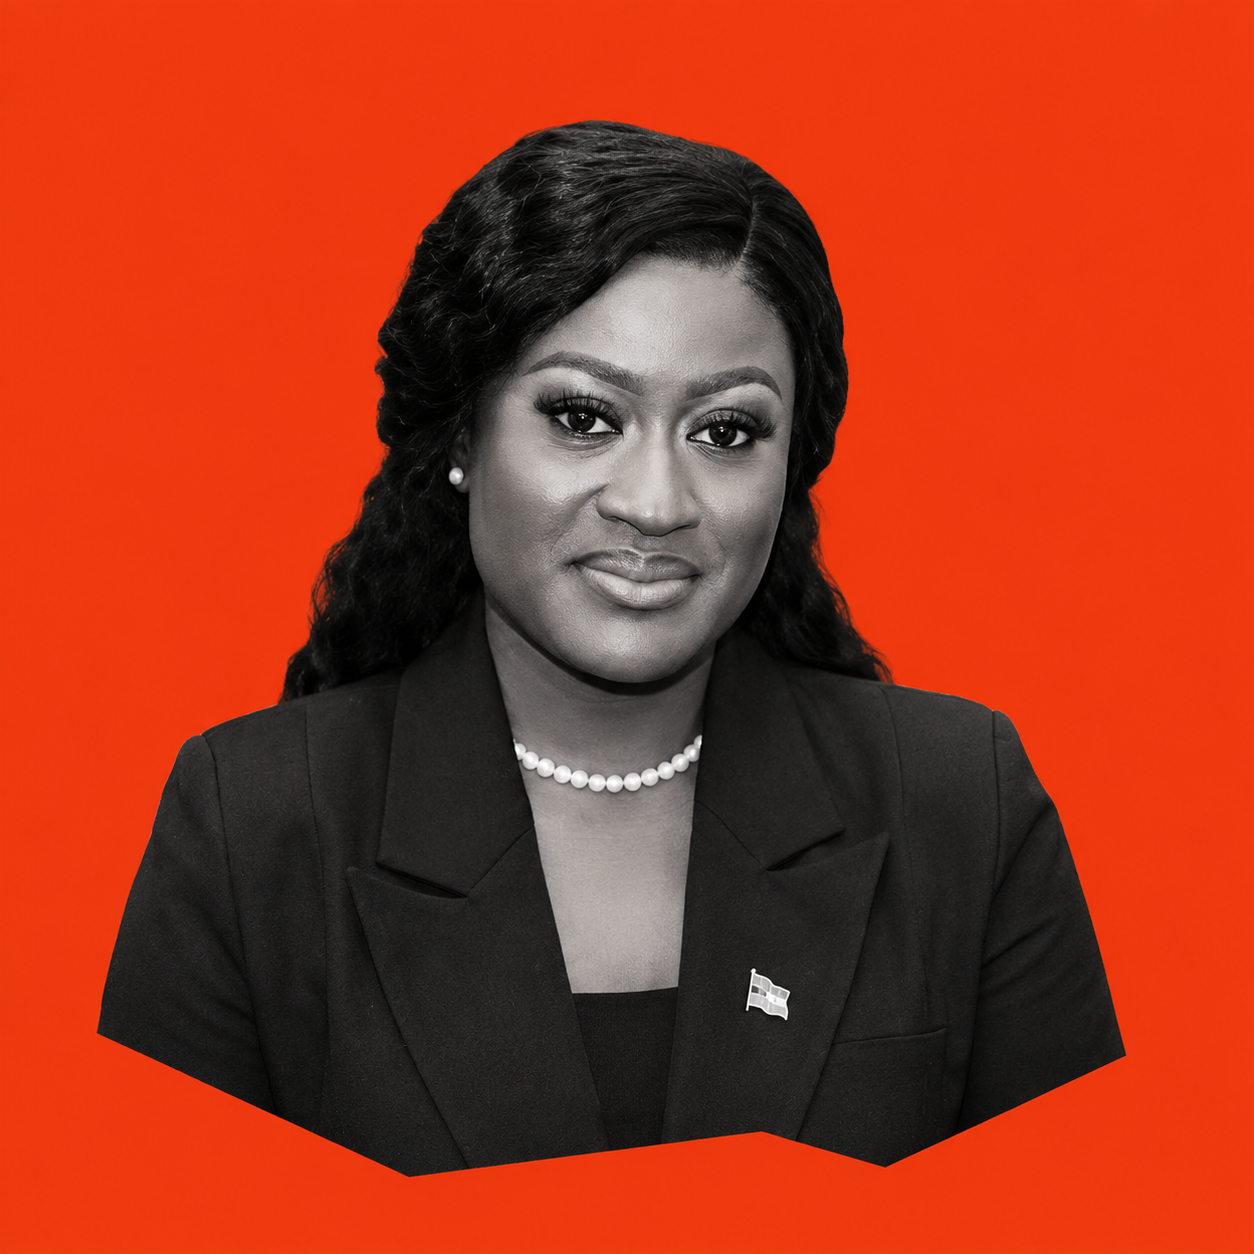
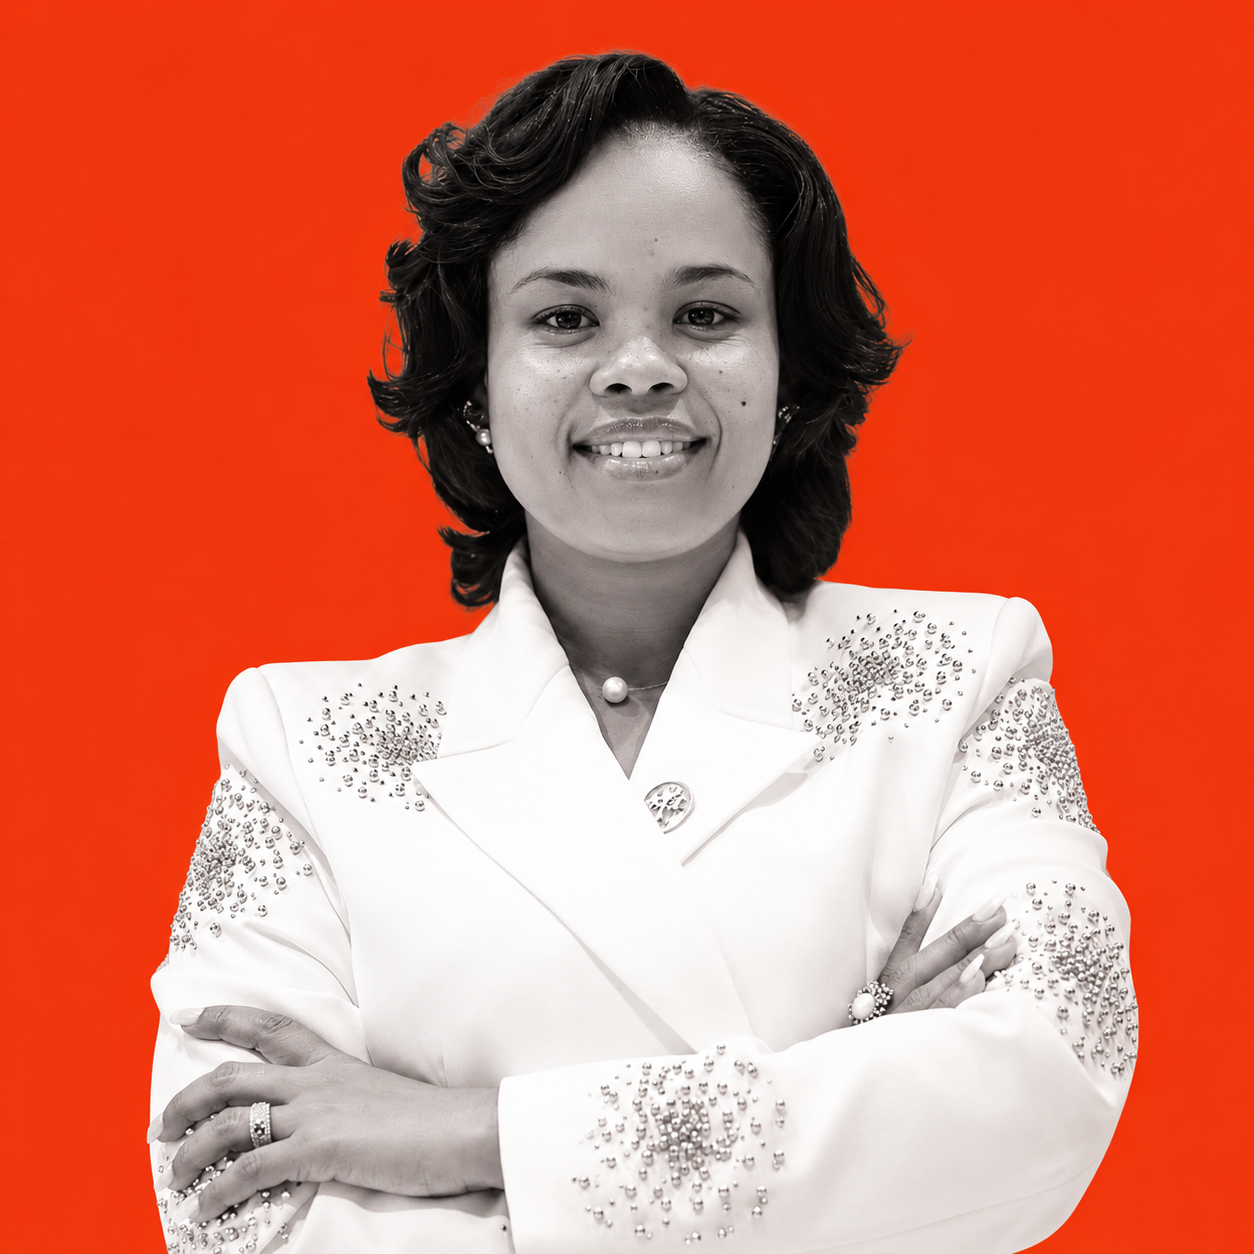
Reorder leadership grid + fix country + add Oussoumane photo
- Hon. Oussoumane Camara: country corrected from Burkina Faso to
  Guinea Bissau; real photo wired up (leader-oussoumane.png)
- Hon. L. Brinkman: role updated to "Southern Africa Coordinator";
  card moved to second-to-last position (right before Sec General)
- Amb. Leo E. Tiah: moved from 2nd to last position in the grid

diff --git a/index.html b/index.html
@@ -421,12 +421,6 @@
             </article>
 
             <article class="leader-card reveal">
-              <img src="assets/leader-leo.jpg" alt="Amb. Leo E. Tiah" />
-              <h3>Amb. Leo E. Tiah</h3>
-              <p>Secretary General - Liberia</p>
-            </article>
-
-            <article class="leader-card reveal">
               <img src="assets/leader-fofana.jpg" alt="Hon. Mohammed T. Fofanah" />
               <h3>Hon. Mohammed T. Fofanah</h3>
               <p>Deputy Secretary for Policy and Planning</p>
@@ -451,9 +445,9 @@
             </article>
 
             <article class="leader-card reveal">
-              <img src="assets/leader-oussoumane.jpg" alt="Hon. Oussoumane Camara" onerror="this.replaceWith(Object.assign(document.createElement('div'),{className:'leader-placeholder',textContent:'OC'}))" />
+              <img src="assets/leader-oussoumane.png" alt="Hon. Oussoumane Camara" onerror="this.replaceWith(Object.assign(document.createElement('div'),{className:'leader-placeholder',textContent:'OC'}))" />
               <h3>Hon. Oussoumane Camara</h3>
-              <p>Burkina Faso</p>
+              <p>Guinea Bissau</p>
             </article>
 
             <article class="leader-card reveal">
@@ -463,15 +457,21 @@
             </article>
 
             <article class="leader-card reveal">
-              <img src="assets/leader-brinkman.png" alt="Hon. L. Brinkman" onerror="this.replaceWith(Object.assign(document.createElement('div'),{className:'leader-placeholder',textContent:'LB'}))" />
-              <h3>Hon. L. Brinkman</h3>
-              <p>Namibia</p>
-            </article>
-
-            <article class="leader-card reveal">
               <img src="assets/leader-tagnonnanon.png" alt="Hon. Tagnonnanon Edmonde Fonton" onerror="this.replaceWith(Object.assign(document.createElement('div'),{className:'leader-placeholder',textContent:'TF'}))" />
               <h3>Hon. Tagnonnanon Edmonde Fonton</h3>
               <p>Benin</p>
+            </article>
+
+            <article class="leader-card reveal">
+              <img src="assets/leader-brinkman.png" alt="Hon. L. Brinkman" onerror="this.replaceWith(Object.assign(document.createElement('div'),{className:'leader-placeholder',textContent:'LB'}))" />
+              <h3>Hon. L. Brinkman</h3>
+              <p>Southern Africa Coordinator</p>
+            </article>
+
+            <article class="leader-card reveal">
+              <img src="assets/leader-leo.jpg" alt="Amb. Leo E. Tiah" />
+              <h3>Amb. Leo E. Tiah</h3>
+              <p>Secretary General - Liberia</p>
             </article>
           </div>
         </div>
